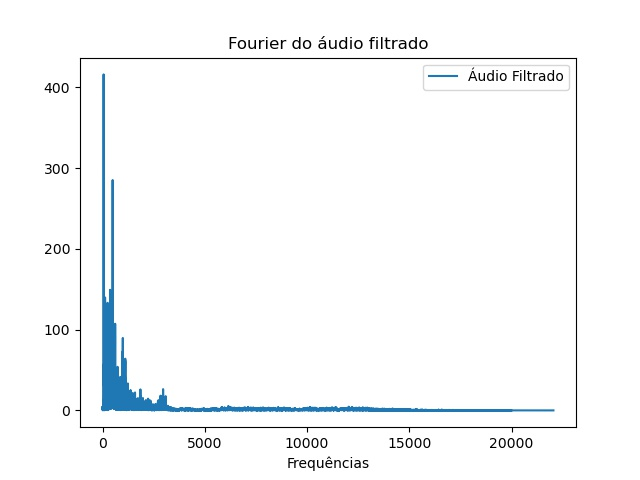
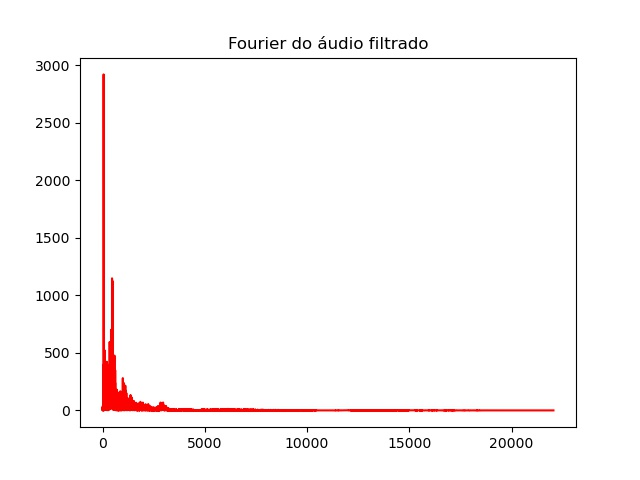
falta criar arquivo .wav e usar .wav de outro

diff --git a/Projeto8/projeto8.py b/Projeto8/projeto8.py
@@ -29,9 +29,11 @@ def main():
     else:
         duration = len(audio)/samplerate
         number_of_samples = samplerate*duration
+    sd.default.channels = 1
+    yAudio = audio[:,1]
 
     ## Normalizar o sinal
-    audioNormalizado = normalizeAudio(audio)
+    audioNormalizado = normalizeAudio(yAudio)
     print(f"\n[+]---Faixa do áudio normalizado: '[{audioNormalizado.min(), audioNormalizado.max()}]'\n")
 
     ## Reproduzir o sinal normalizado
@@ -52,68 +54,84 @@ def main():
     print(f"\n[+]---Modulando o sinal por AM de 20 MHz\n")
     t = np.linspace(0, duration, number_of_samples)
     carrier = 1*np.cos(2*np.pi*20000*t)
-    audioModAM = np.dot(carrier, audioFiltered)
+    audioModAM = 1*carrier*audioFiltered
 
     ## Reproduzir o sinal (não é perfeitamente audível)
     print(f"\n[+]---Tocando o audio modulado (não é audível)\n")
-    print(audioModAM)
     sd.play(audioModAM)
     sd.wait()
 
-    ## Gráfico Fourier x Tempo do áudio original
-    arrayAudioOriginal = np.ndarray(shape=(88200,),dtype=np.float32)
-    for i in range(0,arrayAudioOriginal.shape[0]):
-        arrayAudioOriginal[i] = audio[i][0]
+    #=============================GRÁFICOS=================================
 
-    tempo = np.linspace(0, duration, 44100)
-    xf, yf = calcFFT(arrayAudioOriginal, 44100)
-    plt.plot(xf, yf, label="Áudio Original")
+    ## Gráfico Fourier x Tempo do áudio original
+    plt.plot(t, yAudio, label="Áudio Original")
+    plt.title("Áudio original x Tempo")
+    plt.savefig("AudioOriginalxTempo.jpg")
+    plt.show()
+
+    xf1, yf1 = calcFFT(yAudio, 44100)
+    plt.plot(xf1, np.abs(yf1), label="Áudio Original", color="blue")
     plt.title("Fourier do áudio original")
-    plt.xlabel("Frequências")
-    plt.legend()
     plt.savefig("FourierAudioOriginal.jpg")
     plt.show()
 
     ## Gráfico Fourier x Tempo do áudio normalizado
-    arrayAudioNormalizado = np.ndarray(shape=(88200,),dtype=np.float32)
-    for i in range(0,arrayAudioNormalizado.shape[0]):
-        arrayAudioNormalizado[i] = audioNormalizado[i][0]
+    plt.plot(t, audioNormalizado, label="Áudio Normalizado")
+    plt.title("Áudio normalizado x Tempo")
+    plt.savefig("AudioNormalizadoxTempo.jpg")
+    plt.show()
 
-    tempo = np.linspace(0, duration, 44100)
-    xf, yf = calcFFT(arrayAudioNormalizado, 44100)
-    plt.plot(xf, yf, label="Áudio Normalizado")
+    xf2, yf2 = calcFFT(audioNormalizado, 44100)
+    plt.plot(xf2, np.abs(yf2), label="Áudio Normalizado", color="green")
     plt.title("Fourier do áudio normalizado")
-    plt.xlabel("Frequências")
-    plt.legend()
     plt.savefig("FourierAudioNormalizado.jpg")
     plt.show()
 
     ## Gráfico Fourier x Tempo do áudio filtrado
-    arrayAudioFiltered = np.ndarray(shape=(88200,),dtype=np.float32)
-    for i in range(0,arrayAudioFiltered.shape[0]):
-        arrayAudioFiltered[i] = audioFiltered[i][0]
+    plt.plot(t, audioFiltered, label="Áudio Filtrado")
+    plt.title("Áudio filtrado x Tempo")
+    plt.savefig("AudioFiltradoxTempo.jpg")
+    plt.show()
 
-    tempo = np.linspace(0, duration, 44100)
-    xf, yf = calcFFT(arrayAudioFiltered, 44100)
-    plt.plot(xf, yf, label="Áudio Filtrado")
+    xf3, yf3 = calcFFT(audioFiltered, 44100)
+    plt.plot(xf3, np.abs(yf3), label="Áudio Filtrado", color="red")
     plt.title("Fourier do áudio filtrado")
-    plt.xlabel("Frequências")
-    plt.legend()
     plt.savefig("FourierAudioFiltrado.jpg")
     plt.show()
 
     ## Gráfico Fourier x Tempo do áudio modulado
-    arrayAudioModAM = np.ndarray(shape=(88200,),dtype=np.float32)
-    for i in range(0,arrayAudioModAM.shape[0]):
-        arrayAudioModAM[i] = audioModAM[i][0]
+    plt.plot(t, audioModAM, label="Áudio Modulado")
+    plt.title("Áudio modulado x Tempo")
+    plt.savefig("AudioModuladoxTempo.jpg")
+    plt.show()
 
-    tempo = np.linspace(0, duration, 44100)
-    xf, yf = calcFFT(arrayAudioModAM, 44100)
-    plt.plot(xf, yf, label="Áudio Modulado")
+    xf4, yf4 = calcFFT(audioModAM, 44100)
+    plt.plot(xf4, np.abs(yf4), label="Áudio Modulado", color="brown")
     plt.title("Fourier do áudio modulado")
-    plt.xlabel("Frequências")
-    plt.legend()
     plt.savefig("FourierAudioModulado.jpg")
     plt.show()
+
+    # Demodulação
+    file = askopenfilename(initialdir=os.getcwd(), title='Selecione o arquivo .wav', filetypes=[('Sound Files', '.wav')])
+    
+    print(f"\n[+]---Arquivo '{os.path.basename(file)}' selecionado\n")
+    samplerateDemod, audioMODfriend = wavfile.read(file)
+
+    audioDemod = carrier*audioMODfriend
+    durationDemod = len(audioDemod)/samplerateDemod
+    number_of_samplesDemod = samplerateDemod*durationDemod
+    tempoDemod = np.linspace(0, durationDemod, number_of_samplesDemod)
+
+    plt.plot(tempoDemod, audioDemod, label="Áudio Demodulado")
+    plt.title("Áudio demodulado x Tempo")
+    plt.savefig("AudioDemoduladoxTempo.jpg")
+    plt.show()
+
+    xf5, yf5 = calcFFT(audioDemod, 44100)
+    plt.plot(xf5, np.abs(yf5), label="Áudio Demodulado", color="black")
+    plt.title("Fourier do áudio demodulado")
+    plt.savefig("FourierAudioDemodulado.jpg")
+    plt.show()
+
 if __name__ == "__main__":
     main()
